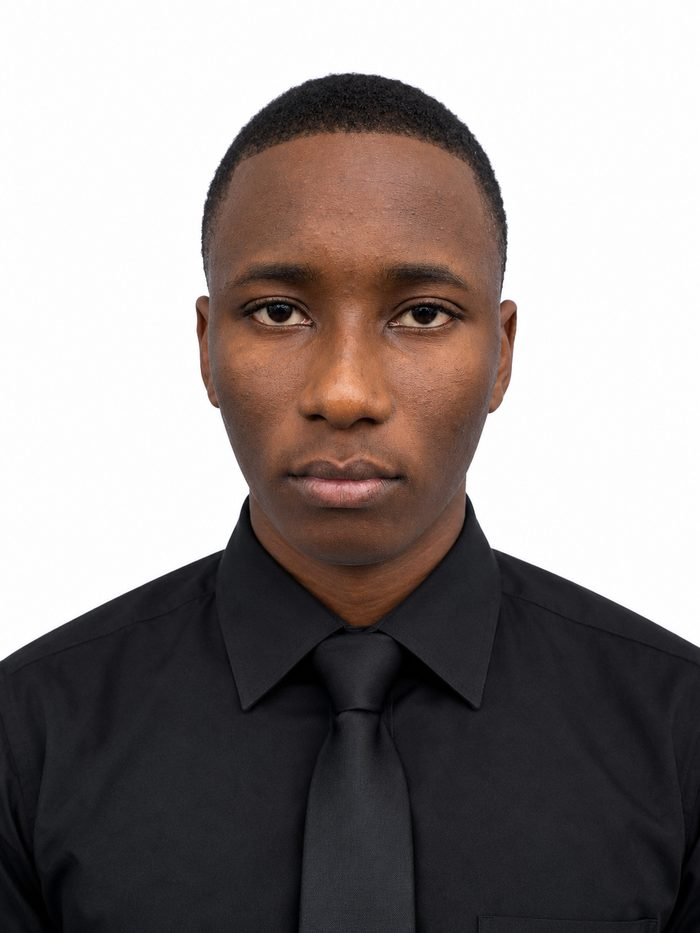
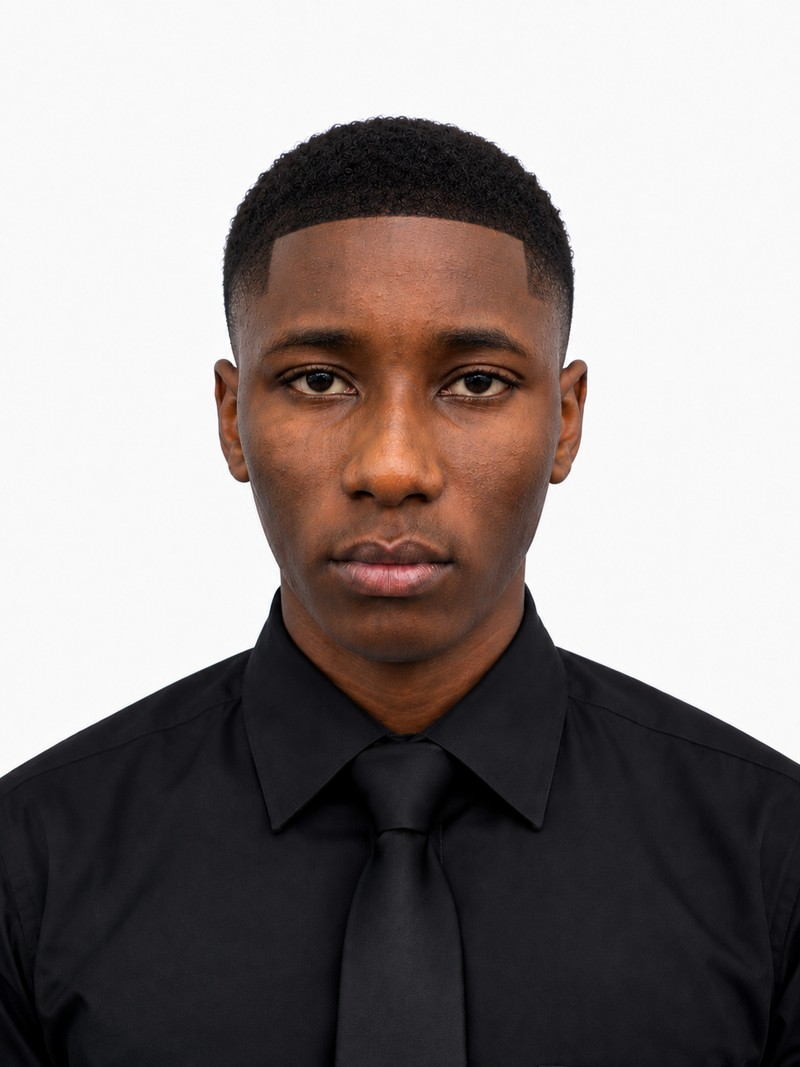
Update team photos and page title
- Replace Jaffary and Furaha with new photos, reprocess Millard at higher quality
- Simplify document title to "Syncore Technologies"

diff --git a/index.html b/index.html
@@ -5,7 +5,7 @@
     <link rel="icon" type="image/png" href="/favicon.png" />
     <meta name="viewport" content="width=device-width, initial-scale=1.0" />
     <meta name="theme-color" content="#070b16" />
-    <title>Syncore Technologies — Technologies with Purpose.</title>
+    <title>Syncore Technologies</title>
     <meta
       name="description"
       content="Syncore Technologies is a technology and digital innovation company building intelligent, integrated, reliable, and purposeful technological solutions across software, web, IoT, AI, automation, and design."
